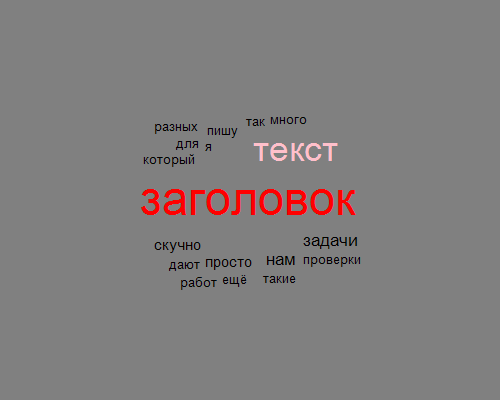
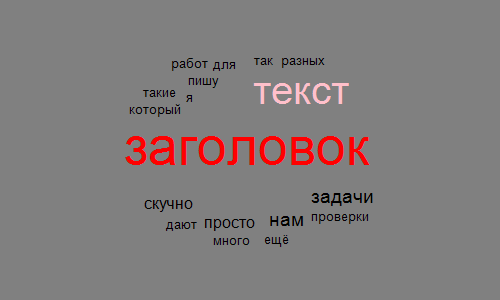
Fix bug. Create testing image

Changed region(s): [[0.24, 0.45, 0.75, 0.84], [0.24, 0.18, 0.69, 0.42], [0.51, 0.18, 0.66, 0.24]]

diff --git a/TagCloud/Clients/ConsoleClient/ConsoleClient.cs b/TagCloud/Clients/ConsoleClient/ConsoleClient.cs
@@ -79,6 +79,7 @@ public class ConsoleClient : IClient
                     font.Split(' ')
                         .Select(int.Parse)
                         .Take(2).ToArray())
+                .Then(sizes => Result.FailIf(sizes, sizes.Length != 2, "Incorrect numbers count"))
                 .RefineError("Can not recognize font sizes"))
             .Then(sizes => selector.SetWordsSizes(sizes[0], sizes[1]))
             .RefineError("Can not get font sizes from console")
@@ -111,7 +112,7 @@ public class ConsoleClient : IClient
             .ReturnOnFail(e => TryAgain(e, GetBoringWords));
     }
 
-    private Result<BoringWordsFromUser> CreateBoringWords(IEnumerable<string> words)
+    private static Result<BoringWordsFromUser> CreateBoringWords(IEnumerable<string> words)
     {
         var boringWord = new BoringWordsFromUser();
         return Result.OfAction(() =>
@@ -190,7 +191,7 @@ public class ConsoleClient : IClient
 
     private static Result<string> GetFilePathFromConsole()
     {
-        return WriteLineToConsole(Phrases.GetArrow(0))
+        return WriteToConsole(Phrases.GetArrow(0))
             .Then(_ => ReadLineFromConsole())
             .Then(path => FailIf(path, !File.Exists(path), "File not exists"));
     }

diff --git a/TagCloud/App/WordPreprocessorDriver/WordsPreprocessor/DefaultWordsPreprocessor.cs b/TagCloud/App/WordPreprocessorDriver/WordsPreprocessor/DefaultWordsPreprocessor.cs
@@ -18,7 +18,7 @@ public class DefaultWordsPreprocessor : IWordsPreprocessor
         return CreateWordsSet(words)
             .Then(uniqueWords => Result.Of(() =>
                 uniqueWords.Where(word =>
-                        boringWords.All(checker => checker.IsBoring(word).IsSuccess))
+                        boringWords.All(checker => !checker.IsBoring(word).IsSuccess))
                     .ToHashSet()))
             .Then(uniqueWords => CalculateTfIndexes(uniqueWords, words.Count));
     }
